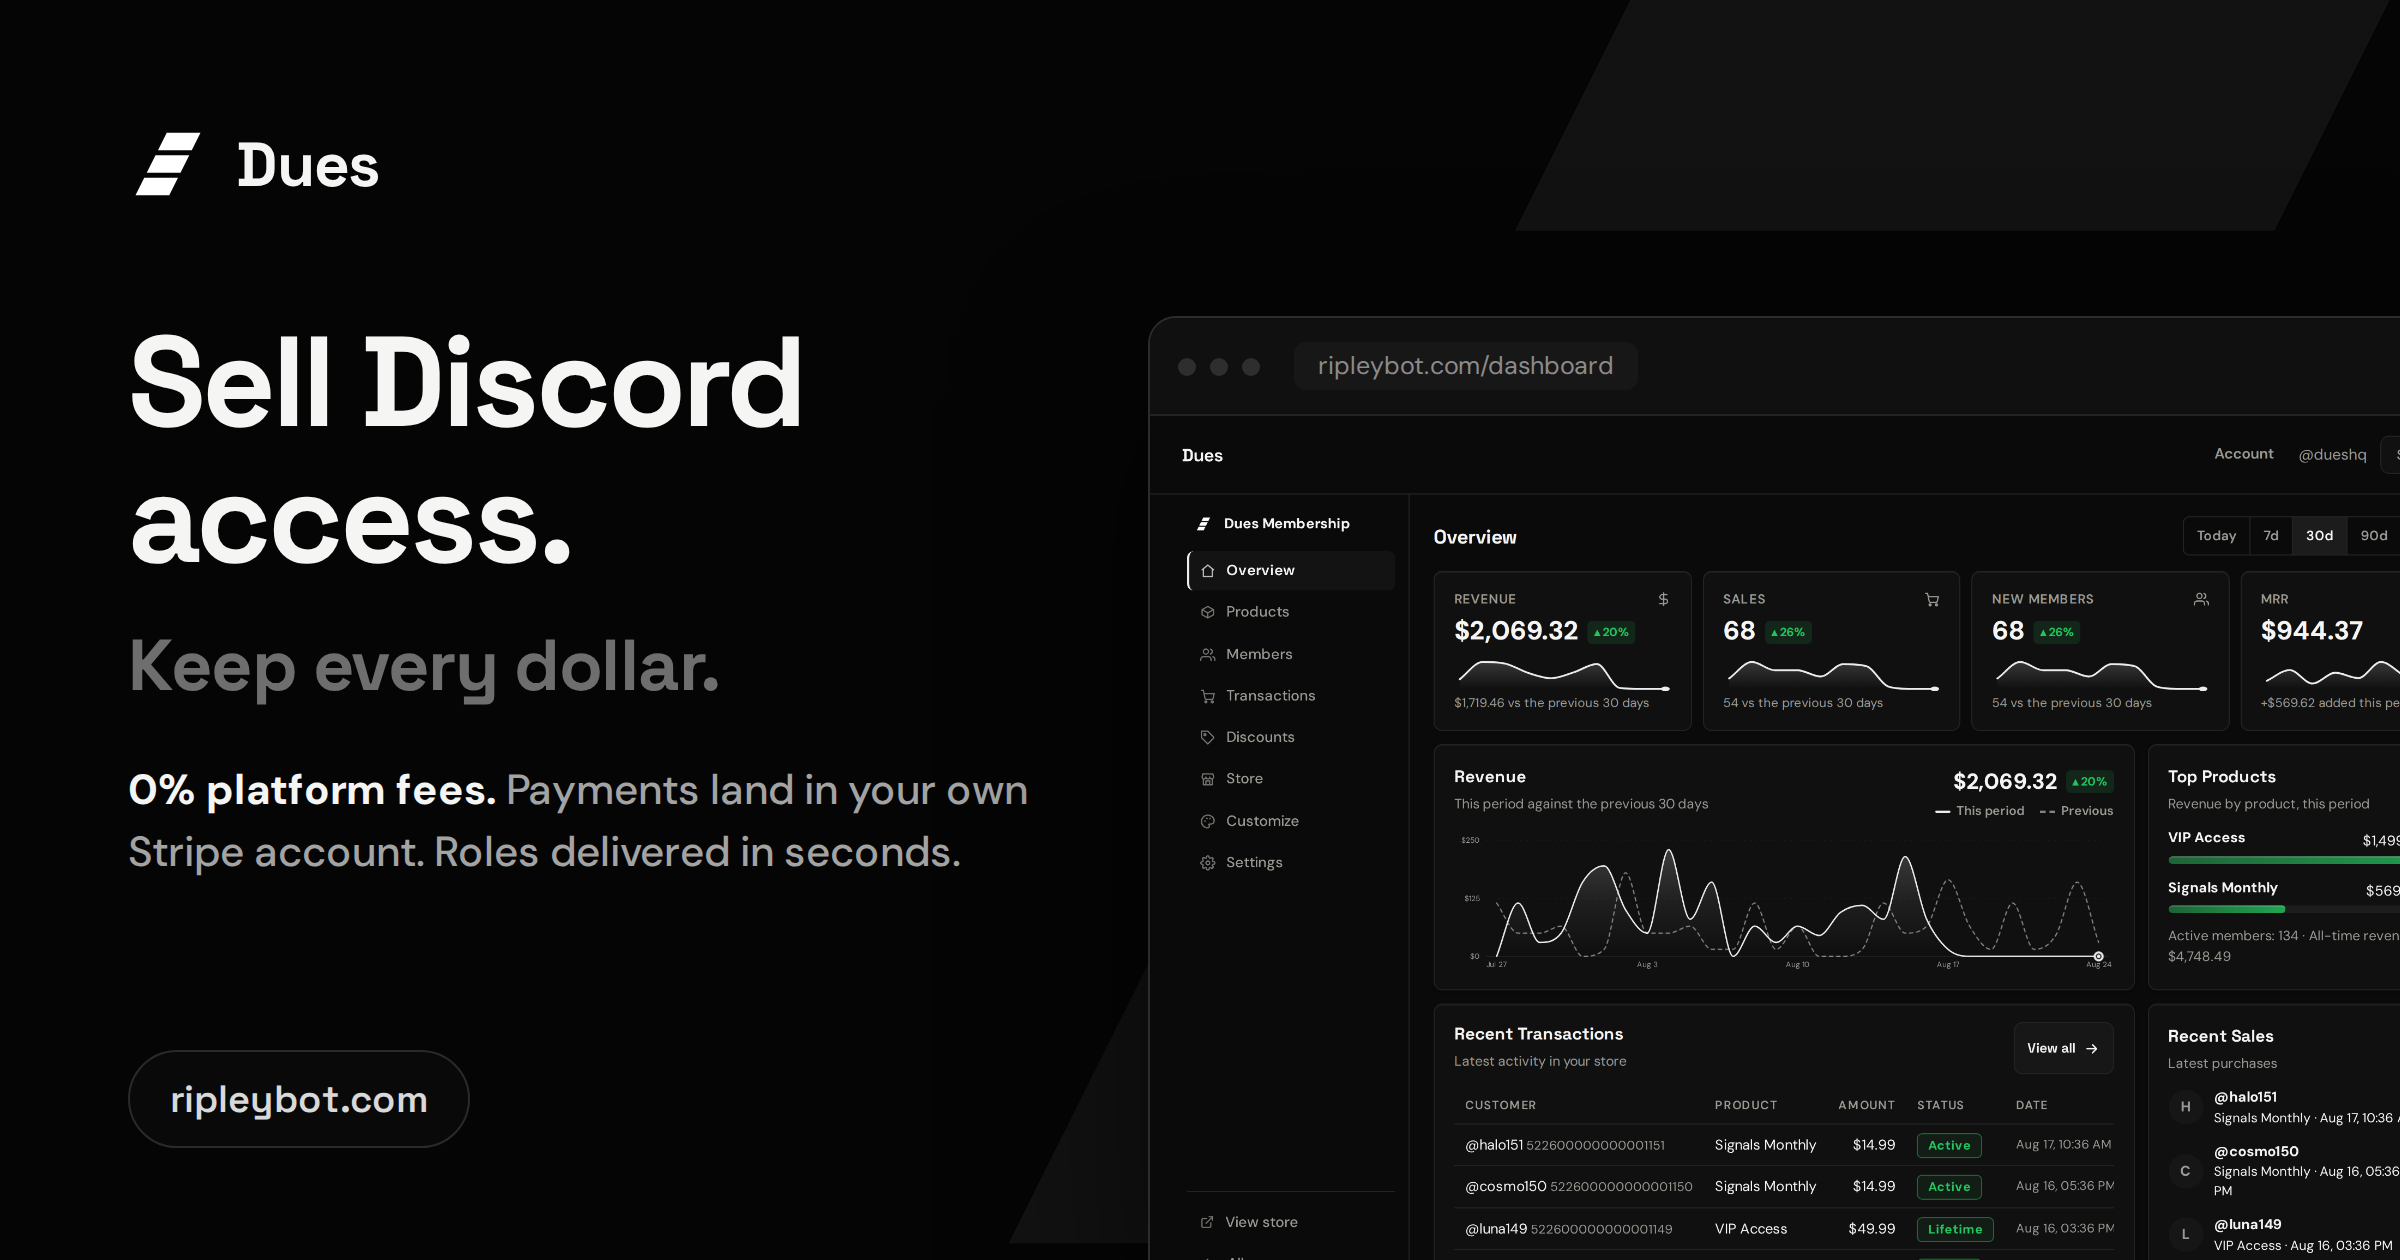
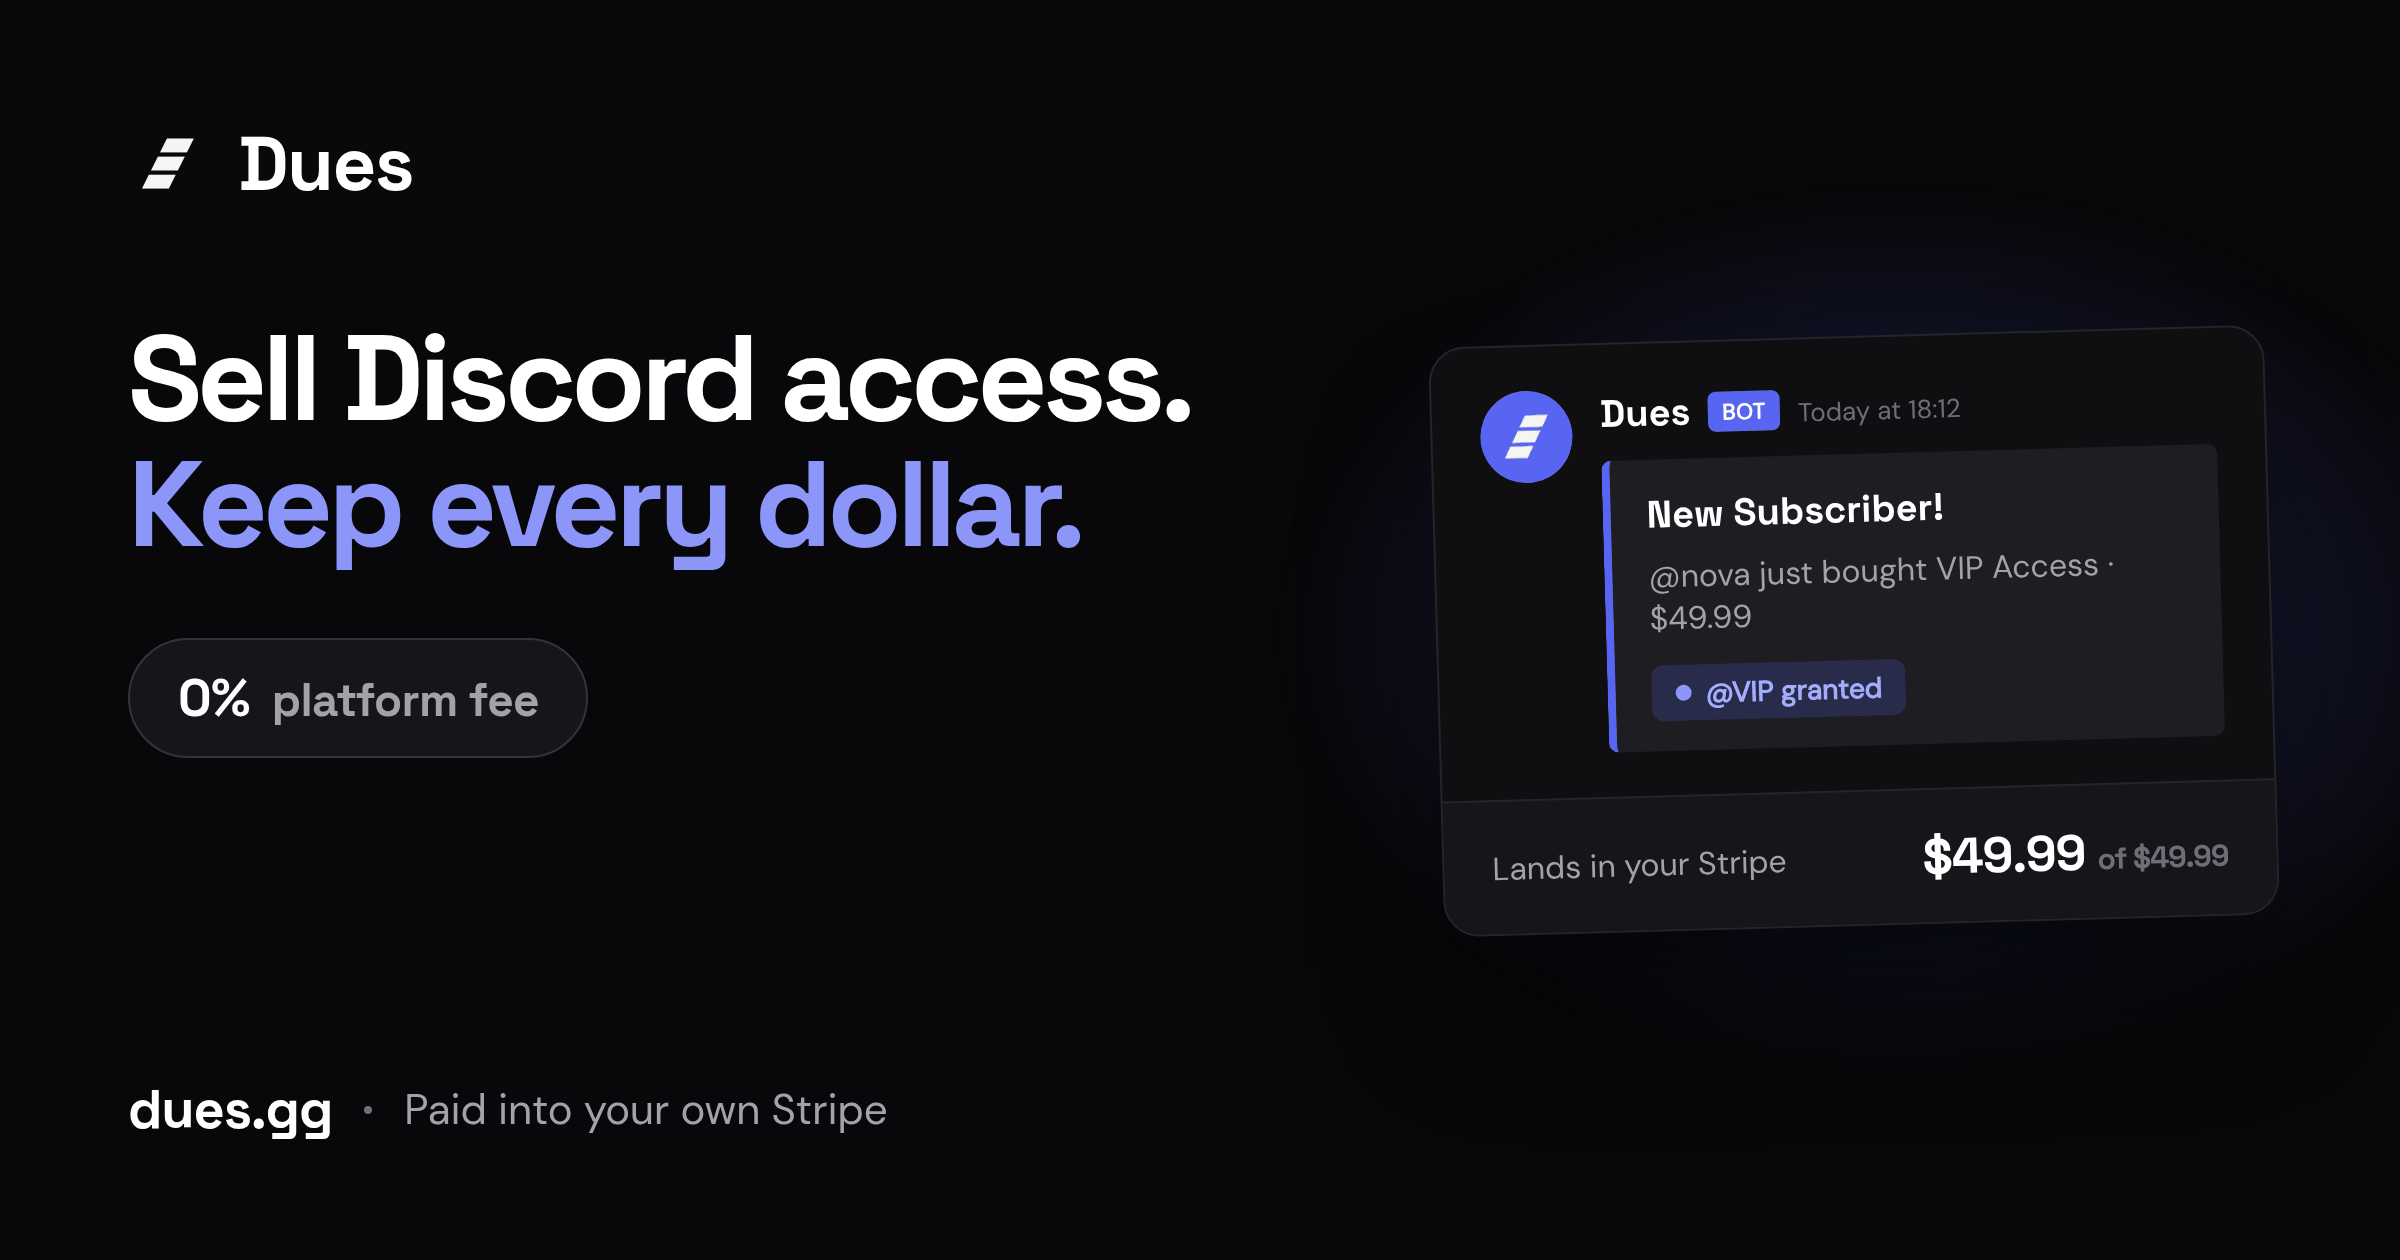
The link preview card said ripleybot, and was mush at the size it is seen
Rebuilt from scratch, rendered by scripts/build-og.mjs at 1200x630 with
deviceScaleFactor 2 (the 2400x1260 the meta tags declare).

Three things were wrong with the old one.

It said ripleybot.com, twice: in the mocked browser's URL bar and in the
pill at the bottom left. The domain moved to dues.gg and the card did not.

It was a screenshot of the whole dashboard and the dashboard ran off the
right edge. "MRR $944.37" lost its panel, "Top Products" lost its numbers,
every row of "Recent Sales" was cut through the middle. A card whose right
third is sliced words reads as broken, not as busy.

And it was designed at full size while being seen at thumbnail size. Slack,
Discord and iMessage render a link preview between roughly 360 and 500px
wide. At 400px, eight stat panels and two tables are grey mush.

So this one is built for the size it is actually seen at: one headline, one
colour moment, one legible product artefact, nothing within 48px of an edge
because platforms crop to different ratios. Checked at 440px, where the
headline, the 0% chip, the domain and the Discord alert all still read.

Three things borrowed from the design systems that solve the same problem,
with their numbers rather than an impression of them:

- Accent discipline (Linear: the accent belongs on the mark and a few
  intentional moments, never decoratively). The first draft had three blue
  blooms washing across the canvas. One remains, behind the product card,
  lighting the object.
[…]

diff --git a/discord-paygate/hero/og-card.html b/discord-paygate/hero/og-card.html
@@ -1,0 +1,239 @@
+<meta charset="utf-8" />
+<title>Dues — link preview card</title>
+<!--
+  THE LINK PREVIEW CARD. Rendered by scripts/build-og.mjs at 1200x630 with
+  deviceScaleFactor 2 — the 2400x1260 the og:image meta tags declare.
+
+  WHAT THE OLD CARD GOT WRONG. All three are easy to walk back into.
+
+  1. It said ripleybot.com, twice: in the mocked browser's URL bar and in the
+     pill at the bottom left. The domain moved to dues.gg and the card did not.
+
+  2. It was a screenshot of the whole dashboard and the dashboard ran off the
+     right edge — "MRR $944.37" lost its panel, "Top Products" lost its numbers,
+     every row of "Recent Sales" was cut through the middle. A card whose right
+     third is sliced words reads as broken, not as busy.
+
+  3. It was designed at full size and is seen at thumbnail size. Slack, Discord
+     and iMessage render a link preview between roughly 360 and 500px wide. At
+     400px, eight stat panels and two tables are grey mush.
+
+  WHAT THIS ONE IS BUILT ON. Three things borrowed from systems that solve the
+  same problem — a near-black canvas with a single blue:
+
+  - Accent discipline (Linear): the accent belongs on the mark and on a few
+    intentional moments, never decoratively. The first draft of this card had
+    three blue blooms washing across the canvas; they are down to one, behind
+    the product artefact, where it is doing a job — lighting the object.
+  - Display tracking (Linear -0.0375em at 80px, Vercel -0.05em at 48px): a bold
+    grotesque at display size needs real negative tracking or it reads loose.
+    -0.042em here.
+  - A surface ladder rather than ad-hoc greys (Linear canvas/surface-1..4 +
+    hairline): every panel on this card sits on a named step.
+-->
+<style>
+  /* The site ships these as woff2. Declared explicitly rather than relying on
+     fontconfig having the TTF cuts installed — the renderer is Chromium, and
+     this is the path that cannot silently fall back to a system face. */
+  @font-face {
+    font-family: 'Dues Grotesk'; font-style: normal; font-weight: 700; font-display: block;
+    src: url('../public/spacegrotesk-latin.woff2') format('woff2');
+  }
+  @font-face {
+    font-family: 'Dues Sans'; font-style: normal; font-weight: 400; font-display: block;
+    src: url('../public/dmsans-latin.woff2') format('woff2');
+  }
+
+  :root {
+    /* The dark cut's palette. The hero film on the homepage is black, white and
+       Discord's #5865F2, and the card someone sees before they ever reach the
+       page should be the same object. */
+    --canvas:    #08080A;
+    --surface-1: #0F0F12;
+    --surface-2: #16161A;
+    --surface-3: #1D1D22;
+    --hairline:  #24242B;
+    --hairline-strong: #33333C;
+    --ink:   #FFFFFF;
+    --mute:  #A2A2AB;
+    --subtle:#6E6E79;
+    --blurple: #5865F2;
+    --blurple-lo: #8B96F8;
+    --grotesk: 'Dues Grotesk', 'Space Grotesk', system-ui, sans-serif;
+    --sans: 'Dues Sans', 'DM Sans', system-ui, sans-serif;
+  }
+  * { margin: 0; padding: 0; box-sizing: border-box; }
+  html, body { width: 1200px; height: 630px; overflow: hidden; }
+  body {
+    font-family: var(--sans); color: var(--ink); background: var(--canvas);
+    -webkit-font-smoothing: antialiased; position: relative;
+  }
+
+  /* The only atmosphere on the card, and it is behind the product artefact
+     rather than across the canvas — a light source for the object, not a
+     wash. A dead-flat near-black would band under PNG's palette anyway. */
+  #bloom {
+    position: absolute; right: -60px; top: 96px; width: 620px; height: 440px;
+    background: radial-gradient(closest-side, rgba(88,101,242,0.30), rgba(88,101,242,0));
+    filter: blur(10px);
+  }
+  #grain { position: absolute; inset: 0; opacity: 0.045; mix-blend-mode: overlay; }
+
+  .pad { position: absolute; inset: 0; padding: 58px 64px; display: flex; gap: 44px; }
+
+  /* ── left ────────────────────────────────────────────────────────────── */
+  .col { width: 610px; display: flex; flex-direction: column; }
+
+  .brand { display: flex; align-items: center; gap: 15px; }
+  .brand img { height: 40px; display: block; }
+  .brand span {
+    font-family: var(--grotesk); font-weight: 700; font-size: 38px; letter-spacing: -0.02em;
+  }
+
+  h1 {
+    margin-top: 52px;
+    font-family: var(--grotesk); font-weight: 700; font-size: 61px; line-height: 1.04;
+    letter-spacing: -0.042em;
+  }
+  /* The one intentional accent in the type. "Keep every dollar" is the whole
+     argument the product makes, so it is the line that carries the blue —
+     and it is the only line that does. */
+  h1 em { font-style: normal; color: var(--blurple-lo); display: block; }
+
+  .chip {
+    margin-top: 34px; align-self: flex-start;
+    display: inline-flex; align-items: baseline; gap: 11px;
+    padding: 12px 24px; border-radius: 999px;
+    background: var(--surface-2); border: 1px solid var(--hairline-strong);
+    font-family: var(--grotesk); font-weight: 700; font-size: 23px; letter-spacing: -0.015em;
+    color: var(--mute);
+  }
+  .chip b { color: var(--ink); font-size: 26px; }
+
+  .foot { margin-top: auto; display: flex; align-items: center; gap: 16px; }
+  .foot .url {
+    font-family: var(--grotesk); font-weight: 700; font-size: 27px; letter-spacing: -0.02em;
+  }
+  .foot .sep { width: 4px; height: 4px; border-radius: 50%; background: var(--subtle); flex: none; }
+  .foot .say { font-size: 21px; color: var(--mute); }
+
+  /* ── right: the moment the product exists for ────────────────────────── */
+  /* Not a dashboard. A dashboard has forty numbers on it and none of them
+     survive being shown 400px wide. One Discord message — the alert a seller
+     actually gets — is recognisable at any size and is the whole product in
+     one object. The payout line is ATTACHED to it rather than floating beside
+     it, so the two read as one card and the eye gets one target, not two. */
+  .stage { flex: 1; display: flex; align-items: center; }
+  .card {
+    width: 100%; background: var(--surface-1);
+    border: 1px solid var(--hairline); border-radius: 18px; overflow: hidden;
+    box-shadow: 0 40px 80px -24px rgba(0,0,0,0.8);
+    transform: rotate(-1.6deg);
+  }
+  .msg { padding: 22px 24px; display: flex; gap: 14px; }
+  .av {
+    width: 46px; height: 46px; border-radius: 50%; background: var(--blurple);
+    display: grid; place-items: center; flex: none; overflow: hidden;
+  }
+  .av img { width: 72%; height: 72%; object-fit: contain; display: block; }
+  .body { flex: 1; min-width: 0; }
+  .who { display: flex; align-items: baseline; gap: 9px; }
+  .who b { font-family: var(--grotesk); font-weight: 700; font-size: 19px; color: var(--ink); }
+  .who .bot {
+    background: var(--blurple); color: #fff; font-size: 11px; font-weight: 700;
+    padding: 3px 7px; border-radius: 4px; letter-spacing: 0.03em;
+    position: relative; top: -2px;
+  }
+  .who u { text-decoration: none; color: var(--subtle); font-size: 13px; }
+  .embed {
+    margin-top: 11px; border-left: 4px solid var(--blurple);
+    background: var(--surface-3); border-radius: 5px; padding: 15px 18px;
+  }
+  .embed .t { font-family: var(--grotesk); font-weight: 700; font-size: 19px; }
+  .embed .d { font-size: 16px; color: var(--mute); margin-top: 8px; }
+  .embed .r {
+    display: inline-flex; align-items: center; gap: 7px; margin-top: 13px;
+    padding: 5px 12px; border-radius: 6px; font-size: 14px; font-weight: 700;
+    background: rgba(88,101,242,0.20); color: #A4ADFA;
+  }
+  .embed .r i { width: 8px; height: 8px; border-radius: 50%; background: var(--blurple-lo); display: block; }
+
+  /* The thing a dashboard would need eight panels to say. */
+  .payout {
+    border-top: 1px solid var(--hairline);
+    background: var(--surface-2);
+    padding: 17px 24px; display: flex; align-items: center; justify-content: space-between; gap: 16px;
+  }
+  .payout .k { font-size: 16px; color: var(--mute); }
+  .payout .v { font-family: var(--grotesk); font-weight: 700; font-size: 25px; letter-spacing: -0.02em; }
+  .payout .v s { text-decoration: none; color: var(--subtle); font-size: 15px; font-weight: 400; }
+</style>
+
+<div id="bloom"></div>
+<svg id="grain" xmlns="http://www.w3.org/2000/svg">
+  <filter id="n"><feTurbulence type="fractalNoise" baseFrequency="0.9" numOctaves="3" stitchTiles="stitch"/></filter>
+  <rect width="100%" height="100%" filter="url(#n)"/>
+</svg>
+
+<div class="pad">
+  <div class="col">
+    <div class="brand">
+      <img src="../assets/dues-glyph.png" alt="" />
+      <span>Dues</span>
+    </div>
+
+    <h1>Sell Discord access.<em>Keep every dollar.</em></h1>
+
+    <div class="chip"><b>0%</b> platform fee</div>
+
+    <div class="foot">
+      <span class="url">dues.gg</span>
+      <span class="sep"></span>
+      <span class="say">Paid into your own Stripe</span>
+    </div>
+  </div>
+
+  <div class="stage">
+    <div class="card">
+      <div class="msg">
+        <div class="av"><img src="../assets/dues-glyph.png" alt="" /></div>
+        <div class="body">
+          <div class="who"><b>Dues</b><span class="bot">BOT</span><u>Today at 18:12</u></div>
+          <div class="embed">
+            <div class="t">New Subscriber!</div>
+            <div class="d">@nova just bought VIP Access · $49.99</div>
+            <div class="r"><i></i>@VIP granted</div>
+          </div>
+        </div>
+      </div>
+      <div class="payout">
+        <span class="k">Lands in your Stripe</span>
+        <span class="v">$49.99 <s>of $49.99</s></span>
+      </div>
+    </div>
+  </div>
+</div>
+
+<script>
+  // The renderer waits on this, exactly as the film's does: a card shot before
+  // the woff2 and the mark have decoded looks almost right, which is the kind
+  // of error nobody catches until it is the image on every shared link.
+  Promise.all([
+    document.fonts ? document.fonts.ready : Promise.resolve(),
+    ...[...document.images].map((im) => (im.complete
+      ? Promise.resolve()
+      : new Promise((r) => { im.onload = r; im.onerror = r; }))),
+  ]).then(() => {
+    // Report the headline's real measured width so the renderer can fail loudly
+    // if a font change ever pushes it past its column instead of silently
+    // wrapping to a ragged third line.
+    const h = document.querySelector('h1');
+    const lines = [...h.childNodes].filter((n) => n.nodeType === 3 || n.tagName === 'EM');
+    window.__fit = {
+      col: document.querySelector('.col').clientWidth,
+      h1: Math.ceil(h.getBoundingClientRect().width),
+      lineCount: Math.round(h.getBoundingClientRect().height / (61 * 1.04)),
+    };
+    window.__ready = true;
+  });
+</script>
